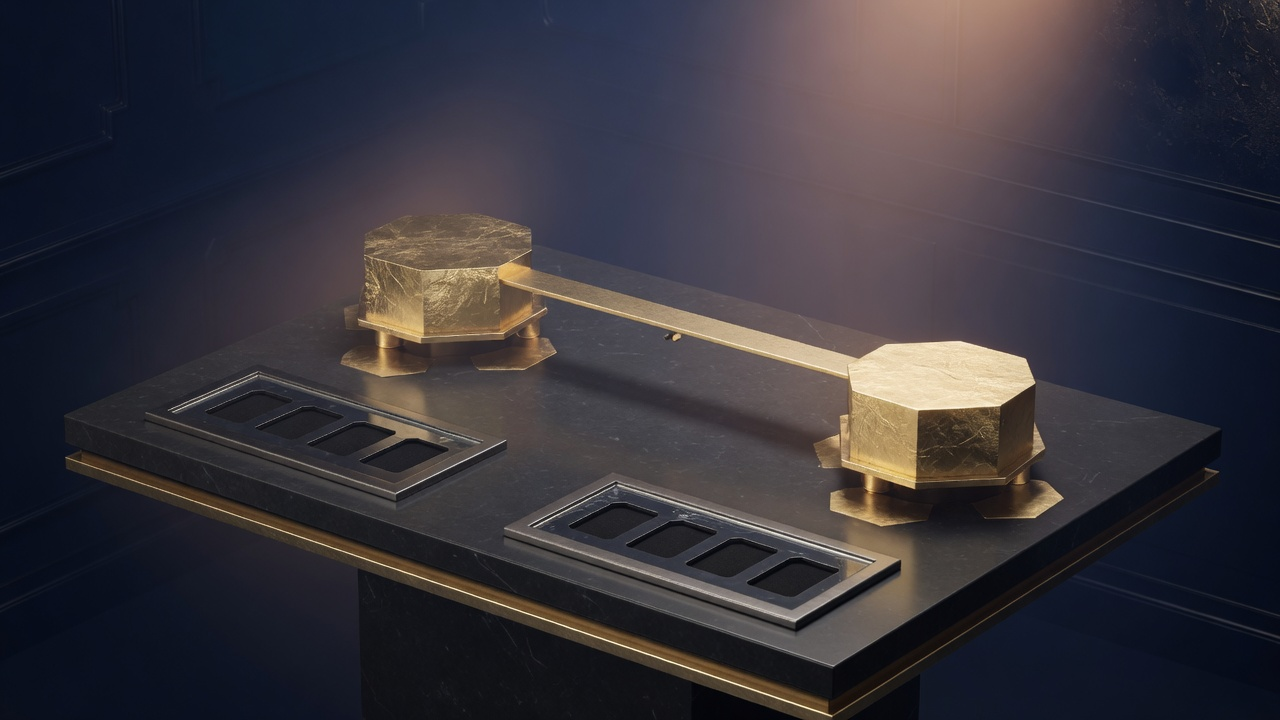
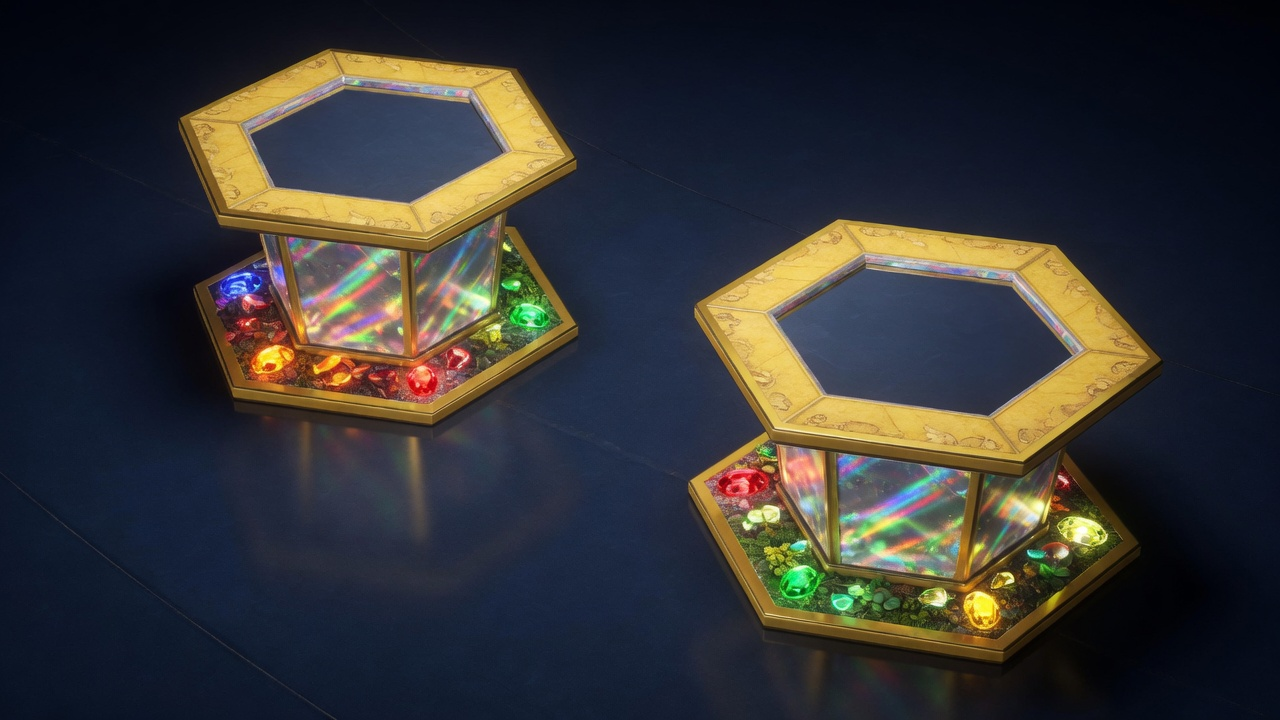
feat(fair-trade): isometric stage from real box-set card designs
151, Base Set, Surging Sparks, and Silver Tempest art drive the HD
stage foil and the Find rail. Search-as-you-type still lists 8 hits.

diff --git a/src/components/pokevault/FairTrade.tsx b/src/components/pokevault/FairTrade.tsx
@@ -288,6 +288,20 @@ export function FairTradeView() {
       </p>
 
       <div className="ft-iso-stage" aria-hidden>
+        <div className="ft-iso-rail">
+          {[
+            "https://assets.tcgdex.net/en/sv/sv03.5/001/high.webp",
+            "https://assets.tcgdex.net/en/sv/sv03.5/006/high.webp",
+            "https://assets.tcgdex.net/en/sv/sv08/001/high.webp",
+            "https://assets.tcgdex.net/en/swsh/swsh12/001/high.webp",
+            "https://images.pokemontcg.io/base1/4_hires.png",
+            "https://assets.tcgdex.net/en/sv/sv03.5/007/high.webp",
+            "https://assets.tcgdex.net/en/sv/sv02/001/high.webp",
+            "https://assets.tcgdex.net/en/sv/sv08/004/high.webp",
+          ].map((src) => (
+            <img key={src} src={src} alt="" />
+          ))}
+        </div>
         <IsoCard card={mine} side="left" />
         <IsoCard card={theirs} side="right" />
       </div>

diff --git a/src/styles.css b/src/styles.css
@@ -3536,13 +3536,29 @@ html, body, .pv-app {
 .ft-hit-price { font-family: "Bebas Neue", sans-serif; color: var(--gold); font-size: 16px; }
 .ft-iso-stage {
   position: relative;
-  height: 220px;
+  height: 240px;
   margin: 0 0 16px;
   border-radius: 16px;
   border: 1px solid var(--gold);
   overflow: hidden;
   background: #0b0c10 url("/fair-trade/iso-stage.jpg") center / cover no-repeat;
   perspective: 900px;
+}
+.ft-iso-rail {
+  position: absolute;
+  inset: 0 0 auto;
+  display: flex;
+  gap: 4px;
+  padding: 6px;
+  overflow: hidden;
+  opacity: 0.42;
+  pointer-events: none;
+}
+.ft-iso-rail img {
+  height: 52px;
+  width: auto;
+  border-radius: 4px;
+  border: 1px solid rgba(226,181,58,.45);
 }
 .ft-iso-card {
   position: absolute;
